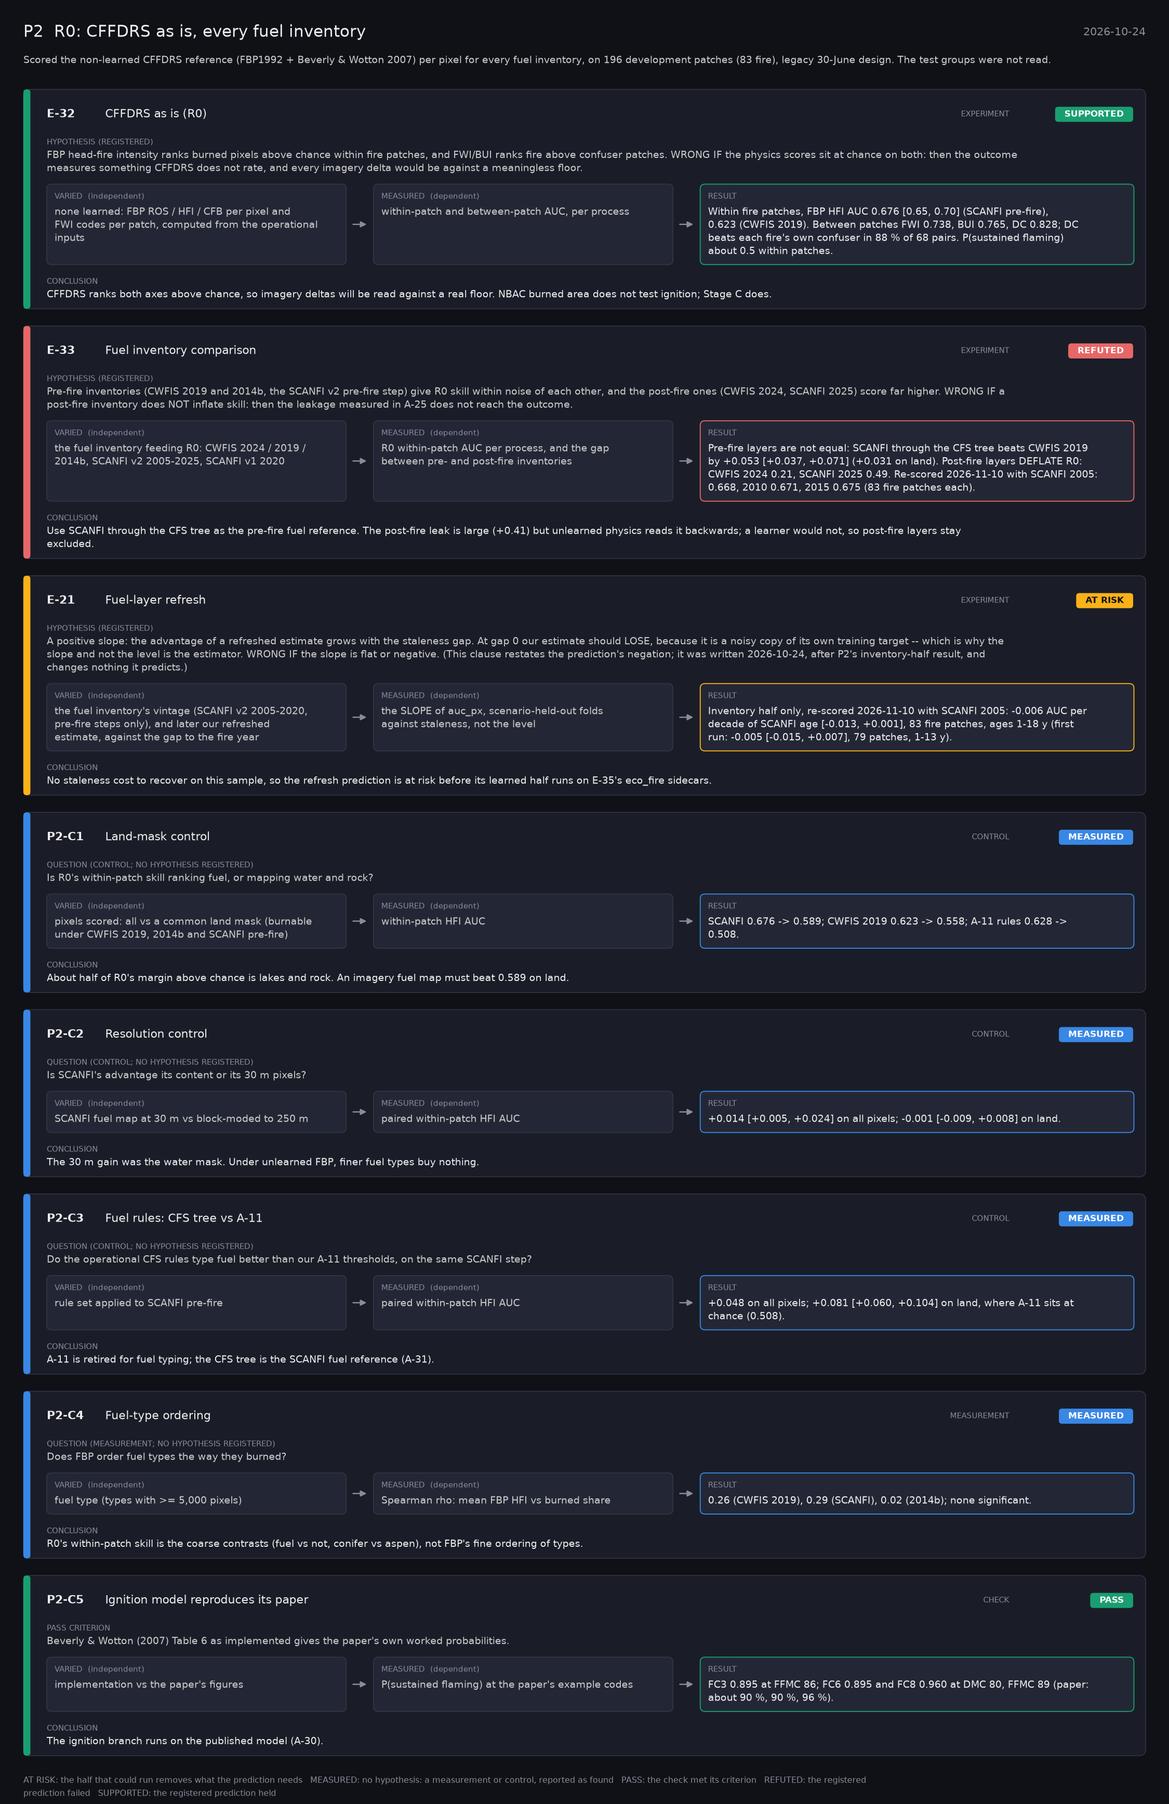
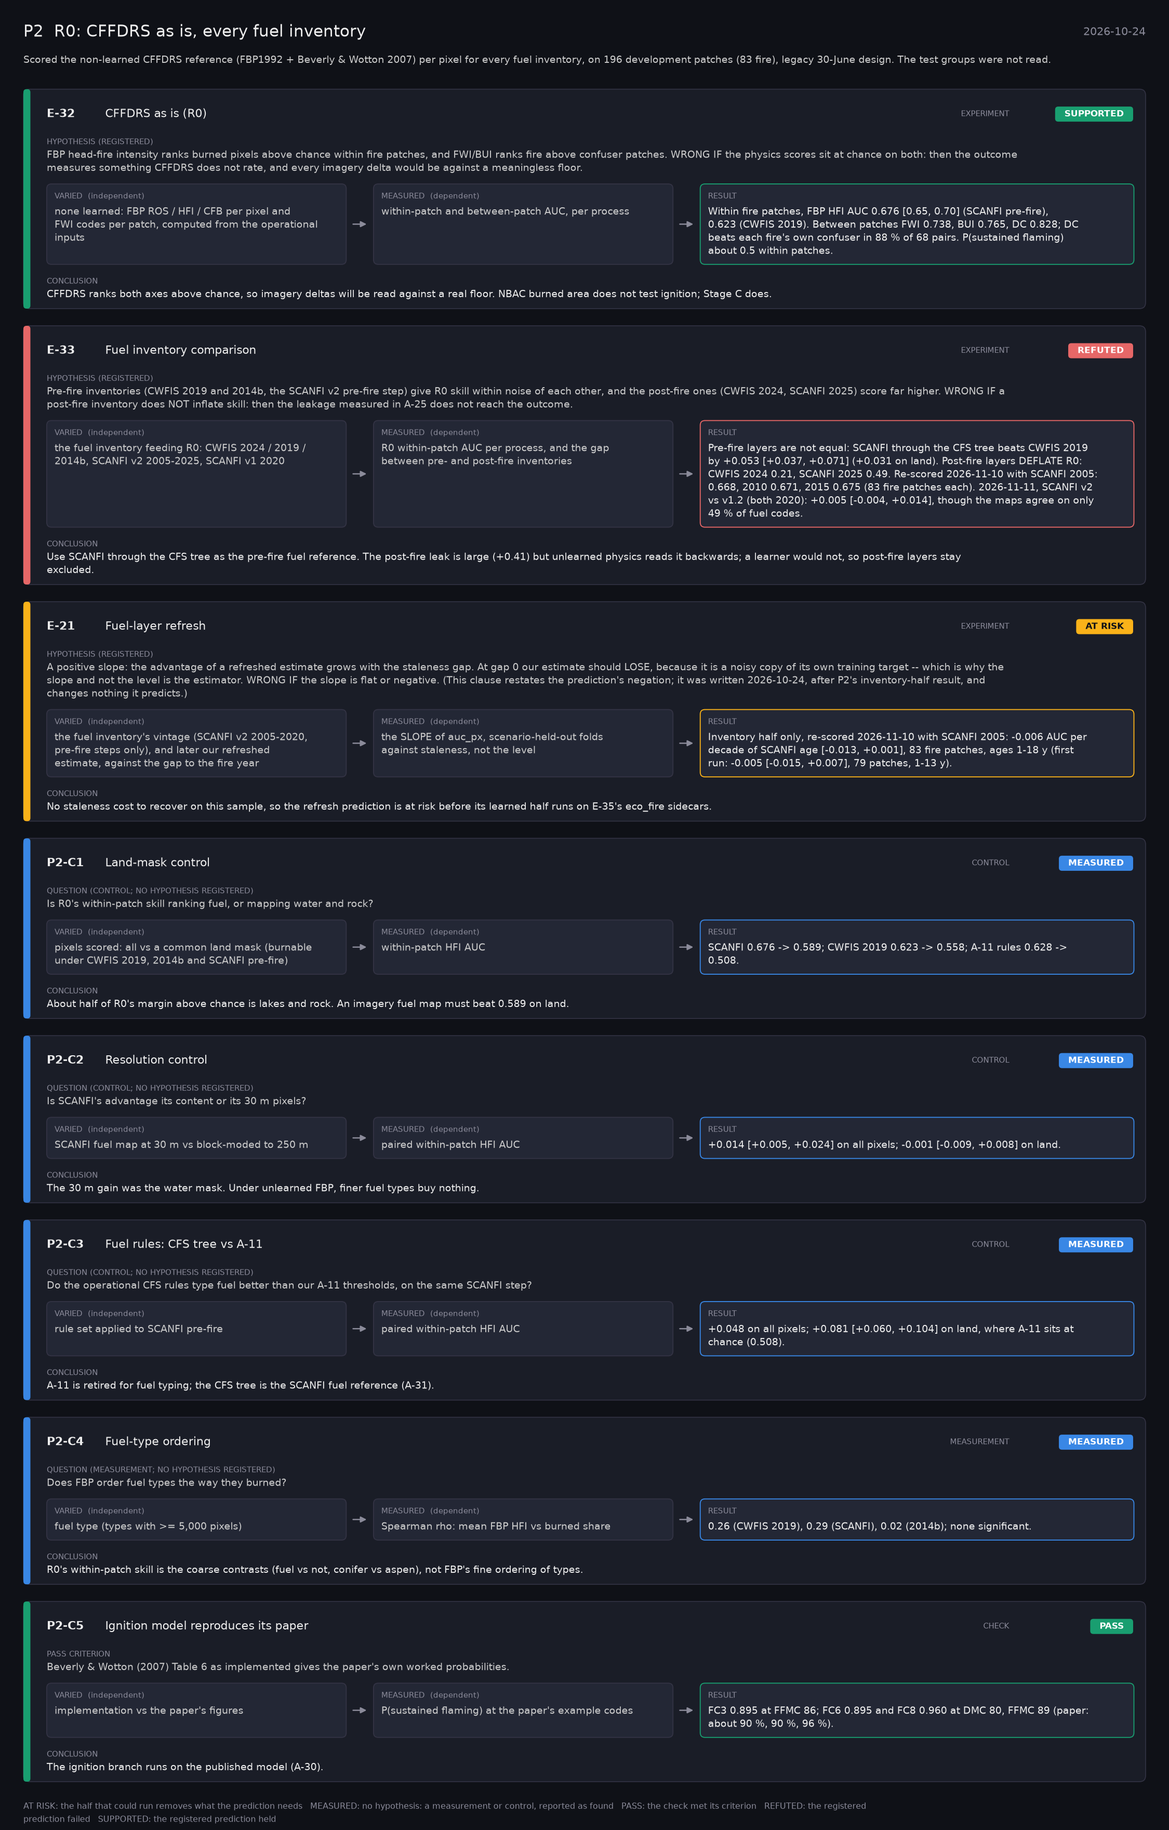
E-33 concluded: SCANFI v1.2 vs v2 (2020) adds nothing to R0
runs/20261111-e33_cffdrs_r0 (Model e370450): v2 vs v1.2, both 2020,
+0.005 [-0.004, +0.014] within-patch HFI AUC (+0.003 on land), though
the maps agree on a median 49 % of fuel codes on the 99 fire patches.
Every other variant reproduces the 2026-11-10 run exactly.

diff --git a/src/safari_bands/experiments.py b/src/safari_bands/experiments.py
@@ -1076,11 +1076,9 @@ EXPERIMENTS: tuple[Experiment, ...] = (
                   "pre- and post-fire inventories",
         conclusion="Which operational fuel input is honest on burned ground, "
                    "and how much a post-fire inventory would flatter a result.",
-        state="PARTIAL",
+        state="CONCLUDED",
         runner="Fire_Risk_Model/scripts/python/eval_cffdrs_reference.py",
-        blocker="SCANFI v1.2 2020 sidecars being fetched (Fire_Risk_Model "
-                "fetch_scanfi_v1.py, adapter scanfi_v1.py, A-54); then rerun "
-                "eval_cffdrs_reference.py, which scores scanfi_v1_tree_2020",
+        blocker="",
         gap="G2 fuel-type layer is a fixed vintage",
         note="P2 (docs/results/P2/p2_r0): REFUTED on both counts. Pre-fire "
              "inventories are not equal: SCANFI through the CFS tree beats "
@@ -1091,7 +1089,10 @@ EXPERIMENTS: tuple[Experiment, ...] = (
              "unlearned physics reads it backwards; a learner would not. The "
              "CFS tree beats the A-11 rules by +0.081 on land. Re-scored "
              "2026-11-10 with SCANFI 2005: 0.668, 2010 0.671, 2015 0.675 within-patch "
-             "HFI AUC (83 fire patches each).",
+             "HFI AUC (83 fire patches each). 2026-11-11 (runs/20261111-e33_cffdrs_r0, "
+             "A-54): SCANFI v2 vs v1.2, both 2020, +0.005 [-0.004, +0.014] within-patch HFI "
+             "AUC (+0.003 on land), though the two maps agree on a median 49 % of fuel codes "
+             "on the 99 fire patches. Every registered inventory is now scored.",
     ),
     Experiment(
         "E-34", "Learned CFFDRS (R1/R2)", "CFFDRS mirror",

diff --git a/src/safari_bands/phases.py b/src/safari_bands/phases.py
@@ -220,7 +220,9 @@ PHASES: tuple[Phase, ...] = (
                          "tree beats CWFIS 2019 by +0.053 [+0.037, +0.071] "
                          "(+0.031 on land). Post-fire layers DEFLATE R0: CWFIS "
                          "2024 0.21, SCANFI 2025 0.49. Re-scored 2026-11-10 with SCANFI "
-                         "2005: 0.668, 2010 0.671, 2015 0.675 (83 fire patches each).",
+                         "2005: 0.668, 2010 0.671, 2015 0.675 (83 fire patches each). "
+                         "2026-11-11, SCANFI v2 vs v1.2 (both 2020): +0.005 [-0.004, "
+                         "+0.014], though the maps agree on only 49 % of fuel codes.",
                   conclusion="Use SCANFI through the CFS tree as the pre-fire "
                              "fuel reference. The post-fire leak is large (+0.41) "
                              "but unlearned physics reads it backwards; a learner "

diff --git a/docs/EXPERIMENTS.md b/docs/EXPERIMENTS.md
@@ -2,7 +2,7 @@
 
 **Generated from `src/safari_bands/experiments.py` by `scripts/make_experiments_doc.py`. Do not edit by hand** -- the figure `docs/results/figures/experiment_plan.png` renders from the same register, and a hand-kept copy drifts.
 
-68 experiments. **39 can run today** on data already packed and staged.
+68 experiments. **38 can run today** on data already packed and staged.
 
 ## Read this first: the label
 
@@ -16,9 +16,9 @@ The damage concentrates where it matters most: B8, B8A and B11 in the ranking, a
 
 | State | Count | What it means | Experiments |
 |---|---|---|---|
-| **Concluded** | 14 | every registered part has run; the verdict is in the phase sheets | E-17, E-18, E-22, E-29, E-34, E-55, E-57, E-58, E-59, E-60, E-64, E-65, E-66, E-67 |
+| **Concluded** | 15 | every registered part has run; the verdict is in the phase sheets | E-17, E-18, E-22, E-29, E-33, E-34, E-55, E-57, E-58, E-59, E-60, E-64, E-65, E-66, E-67 |
 | **Runnable now** | 18 | data packed and staged; nothing missing | E-1, E-2, E-3, E-4, E-5, E-6, E-7, E-10, E-11, E-12, E-19, E-20, E-26, E-27, E-28, E-35, E-37, E-68 |
-| **Partial result** | 21 | some folds or arms have completed; the rest are blocked | E-21, E-32, E-33, E-36, E-38, E-41, E-43, E-44, E-45, E-46, E-47, E-49, E-50, E-51, E-52, E-53, E-54, E-56, E-61, E-62, E-63 |
+| **Partial result** | 20 | some folds or arms have completed; the rest are blocked | E-21, E-32, E-36, E-38, E-41, E-43, E-44, E-45, E-46, E-47, E-49, E-50, E-51, E-52, E-53, E-54, E-56, E-61, E-62, E-63 |
 | **Needs code** | 2 | no new data; a runner or a flag has to be written | E-39, E-40 |
 | **Needs a pack** | 3 | data held but not tiled, packed or transferred | E-8, E-42, E-48 |
 | **Needs new data** | 4 | free to obtain, not yet held | E-9, E-23, E-24, E-25 |
@@ -34,7 +34,7 @@ Numbering note: E-17 to E-20 were an earlier E-1 to E-4 from the CFFDRS gap audi
 | ID | Experiment | Hypothesis | Independent variable | Dependent variable | State | Runner |
 |---|---|---|---|---|---|---|
 | **E-32** | CFFDRS as is (R0) ★ | FBP head-fire intensity ranks burned pixels above chance within fire patches, and FWI/BUI ranks fire above confuser patches. WRONG IF the physics scores sit at chance on both: then the outcome measures something CFFDRS does not rate, and every imagery delta would be against a meaningless floor. | none learned: FBP ROS / HFI / CFB per pixel and FWI codes per patch, computed from the operational inputs | within-patch and between-patch AUC, per process | Partial result | `Fire_Risk_Model/scripts/python/eval_cffdrs_reference.py` |
-| **E-33** | Fuel inventory comparison | Pre-fire inventories (CWFIS 2019 and 2014b, the SCANFI v2 pre-fire step) give R0 skill within noise of each other, and the post-fire ones (CWFIS 2024, SCANFI 2025) score far higher. WRONG IF a post-fire inventory does NOT inflate skill: then the leakage measured in A-25 does not reach the outcome. | the fuel inventory feeding R0: CWFIS 2024 / 2019 / 2014b, SCANFI v2 2005-2025, SCANFI v1 2020 | R0 within-patch AUC per process, and the gap between pre- and post-fire inventories | Partial result | `Fire_Risk_Model/scripts/python/eval_cffdrs_reference.py` |
+| **E-33** | Fuel inventory comparison | Pre-fire inventories (CWFIS 2019 and 2014b, the SCANFI v2 pre-fire step) give R0 skill within noise of each other, and the post-fire ones (CWFIS 2024, SCANFI 2025) score far higher. WRONG IF a post-fire inventory does NOT inflate skill: then the leakage measured in A-25 does not reach the outcome. | the fuel inventory feeding R0: CWFIS 2024 / 2019 / 2014b, SCANFI v2 2005-2025, SCANFI v1 2020 | R0 within-patch AUC per process, and the gap between pre- and post-fire inventories | Concluded | `Fire_Risk_Model/scripts/python/eval_cffdrs_reference.py` |
 | **E-34** | Learned CFFDRS (R1/R2) | A model given exactly the CFFDRS inputs (R1) beats R0, and physics plus a learned residual (R2) is within noise of R1. WRONG IF R1 does not beat R0, which would say the outcome is already as predictable from CFFDRS inputs as CFFDRS makes it. | R0 vs R1 vs R2 on identical inputs and folds | paired within/between-patch AUC per process | Concluded | `Fire_Risk_FW/scripts/shell/sweep_slots.sh CONFIGS=r0_scanfi,r0_cwfis,r1,r2,r2_cwfis` |
 | **E-35** | Fuel-type slot | Imagery-derived fuel type improves within-patch skill over the pre-fire operational layer. WRONG IF the shuffled-imagery twin gains as much, which would make the gain a shortcut. | the fuel-type slot's source: pre-fire inventory vs imagery_replace (ecology model) vs imagery_correct | paired delta in within-patch AUC per process | Runnable now | `Fire_Risk_FW RUN_ID=20261102-1959 SUBMIT=1 bash scripts/shell/sweep_eco_fire.sh (FW 15a705b; done 2026-11-10); then SUBMIT=1 EXP_NAME=slots_e35 RUN_ID=20261110-1901 SKIP_DONE=1 ECO_DATA=$HOME/scratch/eco_fire_v1 CONFIGS=r2,r3_fuel_replace,r3_fuel_replace_shuffled,r3_fuel_pc_replace,r3_fuel_pc_replace_shuffled,r3_pc_replace,r3_pc_replace_shuffled bash scripts/shell/sweep_slots.sh` |
 | **E-36** | Percent-conifer slot | Imagery percent conifer improves M-1/M-2 spread and intensity. WRONG IF no gain survives on mixedwood pixels. | percent-conifer source for M-1/M-2: inventory vs imagery | paired delta on M-1/M-2 pixels | Partial result | `Fire_Risk_FW/scripts/shell/sweep_slots.sh CONFIGS=r3_pc,r3_pc_shuffled` |
@@ -166,9 +166,7 @@ The non-learned reference every imagery slot is measured against -- CFFDRS itsel
 
 Which operational fuel input is honest on burned ground, and how much a post-fire inventory would flatter a result.
 
-*Note:* P2 (docs/results/P2/p2_r0): REFUTED on both counts. Pre-fire inventories are not equal: SCANFI through the CFS tree beats CWFIS 2019 by +0.053 [+0.037, +0.071] within-patch HFI AUC (+0.031 on land only; resolution alone adds nothing once water is masked). Post-fire inventories DEFLATE R0: CWFIS 2024 0.21, SCANFI 2025 0.49. The leak reaches the outcome (+0.41 AUC) but unlearned physics reads it backwards; a learner would not. The CFS tree beats the A-11 rules by +0.081 on land. Re-scored 2026-11-10 with SCANFI 2005: 0.668, 2010 0.671, 2015 0.675 within-patch HFI AUC (83 fire patches each).
-
-*Blocked on:* SCANFI v1.2 2020 sidecars being fetched (Fire_Risk_Model fetch_scanfi_v1.py, adapter scanfi_v1.py, A-54); then rerun eval_cffdrs_reference.py, which scores scanfi_v1_tree_2020
+*Note:* P2 (docs/results/P2/p2_r0): REFUTED on both counts. Pre-fire inventories are not equal: SCANFI through the CFS tree beats CWFIS 2019 by +0.053 [+0.037, +0.071] within-patch HFI AUC (+0.031 on land only; resolution alone adds nothing once water is masked). Post-fire inventories DEFLATE R0: CWFIS 2024 0.21, SCANFI 2025 0.49. The leak reaches the outcome (+0.41 AUC) but unlearned physics reads it backwards; a learner would not. The CFS tree beats the A-11 rules by +0.081 on land. Re-scored 2026-11-10 with SCANFI 2005: 0.668, 2010 0.671, 2015 0.675 within-patch HFI AUC (83 fire patches each). 2026-11-11 (runs/20261111-e33_cffdrs_r0, A-54): SCANFI v2 vs v1.2, both 2020, +0.005 [-0.004, +0.014] within-patch HFI AUC (+0.003 on land), though the two maps agree on a median 49 % of fuel codes on the 99 fire patches. Every registered inventory is now scored.
 
 *CFFDRS gap:* G2 fuel-type layer is a fixed vintage
 
@@ -829,7 +827,6 @@ Parked by decision. Recorded because the argument is strong: FOP runs on 20 km c
 | **E-27** | Cost per input channel | `sweep_architecture.py --widths` | CPU only: model conversion, no Narval GPU allocation |
 | **E-28** | Co-registration tolerance | `Fire_Risk_FW SCRATCH_DATA=$HOME/scratch/stage2_fire_cffdrs_v2 SETS=shift SUBMIT=1 bash scripts/shell/sweep_axes.sh` | 1 fit + 5 evaluations/task x 6 tasks; est 0:06; --time=0:30:00 --mem=16G --cpus-per-task=12 --gpus=a100:1 |
 | **E-32** | CFFDRS as is (R0) | `Fire_Risk_Model/scripts/python/eval_cffdrs_reference.py` | -- |
-| **E-33** | Fuel inventory comparison | `Fire_Risk_Model/scripts/python/eval_cffdrs_reference.py` | -- |
 | **E-35** | Fuel-type slot | `Fire_Risk_FW RUN_ID=20261102-1959 SUBMIT=1 bash scripts/shell/sweep_eco_fire.sh (FW 15a705b; done 2026-11-10); then SUBMIT=1 EXP_NAME=slots_e35 RUN_ID=20261110-1901 SKIP_DONE=1 ECO_DATA=$HOME/scratch/eco_fire_v1 CONFIGS=r2,r3_fuel_replace,r3_fuel_replace_shuffled,r3_fuel_pc_replace,r3_fuel_pc_replace_shuffled,r3_pc_replace,r3_pc_replace_shuffled bash scripts/shell/sweep_slots.sh` | sweep_eco_fire: --time=1:00:00 --gpus=a100:1 --cpus-per-task=8 --mem=48G per job (a first guess: one eco_v3 fit, about 2 min on an A100, plus forward passes); then the slot sweep as E-36 |
 | **E-36** | Percent-conifer slot | `Fire_Risk_FW/scripts/shell/sweep_slots.sh CONFIGS=r3_pc,r3_pc_shuffled` | --time=2:30:00 --gpus=a100:1 --cpus-per-task=12 --mem=32G per task of 18 fits (slots_v3 measured: tasks 10 min median, 17 max; GPU 25 %, 1.5 GB peak; A-35) |
 | **E-37** | Crown-base-height slot | `Fire_Risk_FW SUBMIT=1 EXP_NAME=slots_e35 RUN_ID=20261110-1901 SKIP_DONE=1 ECO_DATA=$HOME/scratch/eco_fire_v1 CONFIGS=...,r3_cbh_replace,r3_cbh_replace_shuffled bash scripts/shell/sweep_slots.sh (correct form: CONFIGS=r3_cbh,r3_cbh_shuffled)` | --time=2:30:00 --gpus=a100:1 --cpus-per-task=12 --mem=32G per task of 18 fits (slots_v3 measured: tasks 10 min median, 17 max; GPU 25 %, 1.5 GB peak; A-35) |

diff --git a/docs/results/P2/p2_r0/README.md b/docs/results/P2/p2_r0/README.md
@@ -1,4 +1,4 @@
-# P2: R0, CFFDRS as-is without learning (2026-10-24; re-scored 2026-11-10 with SCANFI 2005)
+# P2: R0, CFFDRS as-is without learning (2026-10-24; re-scored 2026-11-10 with SCANFI 2005, 2026-11-11 with SCANFI v1.2)
 
 R0 is the non-learned CFFDRS reference that every later imagery result is measured against. It runs FBP1992 spread and intensity and Beverly & Wotton (2007) ignition per pixel, using operational inputs only, for every fuel inventory we hold. Outputs are scored against NBAC burned area.
 
@@ -66,12 +66,14 @@ The table gives paired differences in within-patch HFI AUC on the same 83 fire p
 | 30 m vs 250 m, resolution alone | +0.014 [+0.005, +0.024] | **−0.001** [−0.009, +0.008] |
 | CFS tree vs A-11 judgement rules, same SCANFI step | +0.048 | **+0.081** [+0.060, +0.104] |
 | CWFIS 2019 vs 2014b | +0.016 (n.s.) | +0.026 (n.s.) |
+| SCANFI v2 vs v1.2, both 2020: the version alone (added 2026-11-11) | +0.005 [−0.004, +0.014] | +0.003 [−0.008, +0.015] |
 
 ![inventories](inventories.png)
 
 - **SCANFI fed through the CFS tree is a better pre-fire fuel reference than the operational layer.** The advantage survives at 250 m and on land pixels, so it comes from inventory content, not from pixel size.
 - **The 30 m advantage was the water mask.** SCANFI's water comes from 10 m WorldCover. Once lakes are out, FBP fuel types at 30 m and 250 m score the same.
 - **Retire the A-11 thresholds for fuel typing.** On land they carry nothing (0.508). The CFS tree (A-31) is now the SCANFI fuel reference.
+- **The SCANFI version does not matter to R0, though the maps differ.** v1.2 and v2 (both 2020, through the same tree; v1 mapped by A-54) agree on a median 49 % of fuel codes on the 99 fire patches (IQR 41–59 %; 69 % at family level), yet rank the burned pixels equally well: +0.005 [−0.004, +0.014]. What separates inventories here is the operational layer against SCANFI and the rule set, not SCANFI's release.
 
 ### 4. Post-fire inventories invert the physics (E-33 prediction refuted in direction)
 
@@ -126,17 +128,17 @@ NBAC burned area is a spread-and-consumption outcome, not an ignition one, so th
 
 ## Not done in P2
 
-- The SCANFI v1 2020 adapter (E-33's version comparison).
 - The dated design (P3).
 
 ## Reproduce
 
-Run from Fire_Risk_Model at commit `a5d6f49` (the first run, `20261024-1430_cffdrs_r0` at `6485f95`, lacked the 2005 step; every other row is unchanged):
+Run from Fire_Risk_Model at commit `e370450`, after fetching the SCANFI v1.2 sidecars. Earlier runs: `20261110-e21_cffdrs_r0` at `a5d6f49`, identical in every other row (largest change 0.0), and `20261024-1430_cffdrs_r0` at `6485f95`, which lacked the 2005 step.
 
 ```bash
-python scripts/python/eval_cffdrs_reference.py --out ../../Fire_Risk_Statistics/runs/20261110-e21_cffdrs_r0
+python scripts/python/fetch_scanfi_v1.py --patch-dir data/stage2_fire/patches_11band
+python scripts/python/eval_cffdrs_reference.py --out ../../Fire_Risk_Statistics/runs/20261111-e33_cffdrs_r0
 # then, in Fire_Risk_Statistics:
-python scripts/make_results_package.py --phase P2 --run runs/20261110-e21_cffdrs_r0
+python scripts/make_results_package.py --phase P2 --run runs/20261111-e33_cffdrs_r0
 ```
 
 The run directory is git-ignored. `run.json` here records its config, the qualitative tile stems (fixed by seed before scoring) and the freeze hash.

diff --git a/docs/results/P2/p2_r0/tables.md b/docs/results/P2/p2_r0/tables.md
@@ -17,6 +17,7 @@ Within-patch AUC (fire patches; fuel and terrain only), mean and 95 % group-boot
 | SCANFI v2 2010 | pre-fire | 83 | 0.006 | 0.671 [0.65, 0.70] | 0.673 [0.65, 0.70] | 0.578 [0.56, 0.60] | 0.675 [0.65, 0.70] | 0.535 [0.51, 0.56] | 0.582 [0.57, 0.60] | 0.751 [0.68, 0.82] | 0.712 |
 | SCANFI v2 2015 | pre-fire | 83 | 0.006 | 0.675 [0.65, 0.70] | 0.677 [0.66, 0.70] | 0.581 [0.56, 0.60] | 0.681 [0.66, 0.71] | 0.538 [0.51, 0.57] | 0.590 [0.57, 0.61] | 0.752 [0.67, 0.82] | 0.713 |
 | SCANFI v2 2020 | post-fire for 2019-20 fires | 83 | 0.006 | 0.654 [0.62, 0.69] | 0.654 [0.62, 0.69] | 0.568 [0.55, 0.59] | 0.657 [0.63, 0.69] | 0.522 [0.49, 0.56] | 0.563 [0.54, 0.59] | 0.749 [0.67, 0.82] | 0.708 |
+| SCANFI v1.2 2020 (A-54) | post-fire for 2019-20 fires | 83 | 0.006 | 0.649 [0.62, 0.68] | 0.650 [0.62, 0.68] | 0.564 [0.54, 0.59] | 0.651 [0.62, 0.68] | 0.525 [0.49, 0.56] | 0.560 [0.53, 0.59] | 0.749 [0.68, 0.82] | 0.709 |
 | SCANFI v2 2025 | post-fire: leakage control | 83 | 0.006 | 0.490 [0.45, 0.54] | 0.488 [0.44, 0.54] | 0.447 [0.42, 0.47] | 0.487 [0.44, 0.54] | 0.453 [0.41, 0.50] | 0.352 [0.32, 0.38] | 0.730 [0.65, 0.80] | 0.630 |
 | CWFIS 2024 (30 m) | post-fire: leakage control | 83 | 0.687 | 0.211 [0.17, 0.26] | 0.211 [0.17, 0.26] | 0.390 [0.37, 0.41] | 0.225 [0.18, 0.28] | 0.454 [0.41, 0.49] | 0.093 [0.07, 0.12] | 0.706 [0.63, 0.78] | 0.354 |
 
@@ -32,7 +33,8 @@ Within-patch HFI AUC, A minus B on the same fire patches; 95 % fire/block-group 
 | CFS tree vs A-11 judgement rules, same SCANFI step | +0.048 | [+0.030, +0.067] | 0.69 | 83 |
 | CWFIS 2019 vs 2014b | +0.016 | [-0.006, +0.036] | 0.52 | 83 |
 | pre-fire vs post-fire SCANFI (leak size) | +0.188 | [+0.160, +0.217] | 0.99 | 83 |
-| pre-fire vs post-fire CWFIS (leak size) | +0.413 | [+0.371, +0.451] | 0.99 | 83 |
+| SCANFI v2 vs v1.2, both 2020: the version alone (E-33) | +0.005 | [-0.004, +0.014] | 0.53 | 83 |
+| pre-fire vs post-fire CWFIS (leak size) | +0.413 | [+0.369, +0.451] | 0.99 | 83 |
 
 ## T-paired-land: what each inventory difference is worth, land pixels only (E-33)
 
@@ -46,7 +48,8 @@ Within-patch HFI AUC, A minus B on the same fire patches; 95 % fire/block-group 
 | CFS tree vs A-11 judgement rules, same SCANFI step | +0.081 | [+0.060, +0.104] | 0.83 | 83 |
 | CWFIS 2019 vs 2014b | +0.026 | [-0.000, +0.053] | 0.54 | 83 |
 | pre-fire vs post-fire SCANFI (leak size) | +0.237 | [+0.211, +0.263] | 0.99 | 83 |
-| pre-fire vs post-fire CWFIS (leak size) | +0.465 | [+0.430, +0.497] | 0.99 | 83 |
+| SCANFI v2 vs v1.2, both 2020: the version alone (E-33) | +0.003 | [-0.008, +0.015] | 0.51 | 83 |
+| pre-fire vs post-fire CWFIS (leak size) | +0.465 | [+0.430, +0.498] | 0.99 | 83 |
 
 ## T-weather: FWI codes between patches (E-32)
 

diff --git a/docs/results/P2/p2_r0/experiments.md b/docs/results/P2/p2_r0/experiments.md
@@ -24,7 +24,7 @@ Scored the non-learned CFFDRS reference (FBP1992 + Beverly & Wotton 2007) per pi
 | Hypothesis (registered) | Pre-fire inventories (CWFIS 2019 and 2014b, the SCANFI v2 pre-fire step) give R0 skill within noise of each other, and the post-fire ones (CWFIS 2024, SCANFI 2025) score far higher. WRONG IF a post-fire inventory does NOT inflate skill: then the leakage measured in A-25 does not reach the outcome. |
 | Varied (independent) | the fuel inventory feeding R0: CWFIS 2024 / 2019 / 2014b, SCANFI v2 2005-2025, SCANFI v1 2020 |
 | Measured (dependent) | R0 within-patch AUC per process, and the gap between pre- and post-fire inventories |
-| Result | Pre-fire layers are not equal: SCANFI through the CFS tree beats CWFIS 2019 by +0.053 [+0.037, +0.071] (+0.031 on land). Post-fire layers DEFLATE R0: CWFIS 2024 0.21, SCANFI 2025 0.49. Re-scored 2026-11-10 with SCANFI 2005: 0.668, 2010 0.671, 2015 0.675 (83 fire patches each). |
+| Result | Pre-fire layers are not equal: SCANFI through the CFS tree beats CWFIS 2019 by +0.053 [+0.037, +0.071] (+0.031 on land). Post-fire layers DEFLATE R0: CWFIS 2024 0.21, SCANFI 2025 0.49. Re-scored 2026-11-10 with SCANFI 2005: 0.668, 2010 0.671, 2015 0.675 (83 fire patches each). 2026-11-11, SCANFI v2 vs v1.2 (both 2020): +0.005 [-0.004, +0.014], though the maps agree on only 49 % of fuel codes. |
 | Verdict | **REFUTED**: the registered prediction failed |
 | Conclusion | Use SCANFI through the CFS tree as the pre-fire fuel reference. The post-fire leak is large (+0.41) but unlearned physics reads it backwards; a learner would not, so post-fire layers stay excluded. |
 

diff --git a/docs/results/README.md b/docs/results/README.md
@@ -84,7 +84,7 @@ What substituting each CFFDRS input changed, across the phases so far. Table: [v
 | E-30 T2 curing / NPV fraction | No label exists | - | - | - |
 | E-31 Fire occurrence prediction | No label exists | - | - | - |
 | E-32 CFFDRS as is (R0) | Partial result | P2 SUPPORTED, P3 SUPPORTED | [P2/p2_r0](P2/p2_r0/), [P3/p3_dated](P3/p3_dated/) | [r0](P2/p2_r0/qual_E-32_r0.png) |
-| E-33 Fuel inventory comparison | Partial result | P2 REFUTED | [P2/p2_r0](P2/p2_r0/) | [inventories](P2/p2_r0/qual_E-33_inventories.png) |
+| E-33 Fuel inventory comparison | Concluded | P2 REFUTED | [P2/p2_r0](P2/p2_r0/) | [inventories](P2/p2_r0/qual_E-33_inventories.png) |
 | E-34 Learned CFFDRS (R1/R2) | Concluded | P5 PENDING, P7 MIXED | [P5/p5_slotnet](P5/p5_slotnet/), [P7/p7_slots](P7/p7_slots/) | - |
 | E-35 Fuel-type slot | Runnable now | - | - | - |
 | E-36 Percent-conifer slot | Partial result | P5 PENDING, P7 AT RISK | [P5/p5_slotnet](P5/p5_slotnet/), [P7/p7_slots](P7/p7_slots/) | [pc](P7/p7_slots/qual_E-36_pc.png) |
